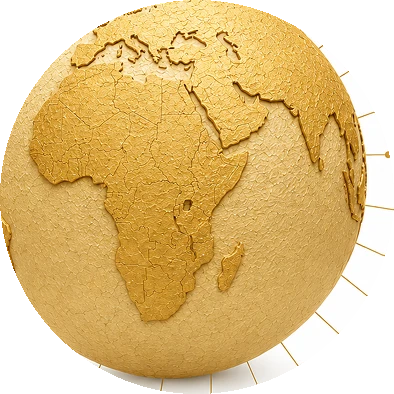
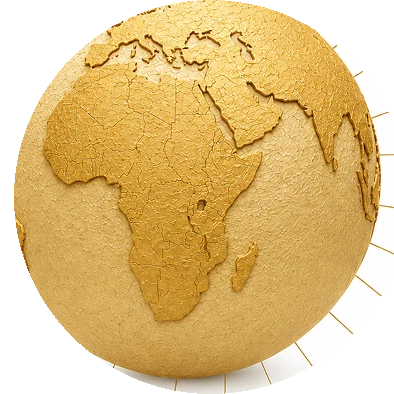
Fix home Products section: distorted UI images, missing full-frame AI mockup, off-center globe
- ProductsShowcase hardcoded width={394} height={807} on every floating UI
  screenshot regardless of its real dimensions. That matched Agent's asset
  but silently stretched Translate (326x468) and Transcribe (326x490) off
  their true aspect ratio — the actual cause of the "blurry" look. Each
  entry now carries its own native width/height.
- Mansa AI had no full-screen "phone frame" screenshot like the other three
  products (its asset was a short, cropped chat snippet). Generated a new
  394x807 full-screen mockup (ai-section-ui.webp) in the same visual
  language as the Agent screenshot: header, chat exchange, and a "Four
  Forces of Flight" answer broken into icon rows.
- That generation initially overwrote ai-oneforevery.webp, which is also
  used by the /ai page's "One AI for every task" section at a different,
  near-square aspect ratio. Split them into two assets — restored the
  original there, put the new mockup under its own filename — so neither
  usage stretches the other's image.
- globe-sphere.webp: the sphere art was off-center within its own square
  canvas (0px margin on the left, 28px on the right), so the CSS circular
  mask exposed a visible gap on one side. Re-centered the source image
  instead of papering over it with a CSS offset.

diff --git a/components/sections/ProductsShowcase.tsx b/components/sections/ProductsShowcase.tsx
@@ -19,12 +19,14 @@ const productImages: Record<string, string> = {
   asr: asset("/assets/product-transcribe.webp"),
 };
 
-// The product's app UI floated over the art (asr is coming soon).
-const productUIs: Record<string, { src: string; gif?: boolean } | null> = {
-  agent: { src: asset("/assets/agent-section-ui.webp"), gif: true },
-  ai: { src: asset("/assets/ai-oneforevery.webp") },
-  translate: { src: asset("/assets/translate-ui-1.webp") },
-  transcribe: { src: asset("/assets/transcribe-ui-2.webp") },
+// The product's app UI floated over the art (asr is coming soon). Width/height
+// are each image's native size — mismatched values here stretch the screenshot
+// off its real aspect ratio, which reads as blur.
+const productUIs: Record<string, { src: string; width: number; height: number; gif?: boolean } | null> = {
+  agent: { src: asset("/assets/agent-section-ui.webp"), width: 394, height: 807, gif: true },
+  ai: { src: asset("/assets/ai-section-ui.webp"), width: 394, height: 807 },
+  translate: { src: asset("/assets/translate-ui-1.webp"), width: 326, height: 468 },
+  transcribe: { src: asset("/assets/transcribe-ui-2.webp"), width: 326, height: 490 },
   asr: null,
 };
 
@@ -145,8 +147,8 @@ export function ProductsShowcase() {
                   <Image
                     src={activeUI.src}
                     alt=""
-                    width={394}
-                    height={807}
+                    width={activeUI.width}
+                    height={activeUI.height}
                     unoptimized={activeUI.gif}
                     className="absolute left-1/2 top-1/2 h-auto w-[52%] max-w-[220px] -translate-x-1/2 -translate-y-1/2 rounded-2xl shadow-2xl transition-transform duration-300 ease-out group-hover:scale-105"
                   />
